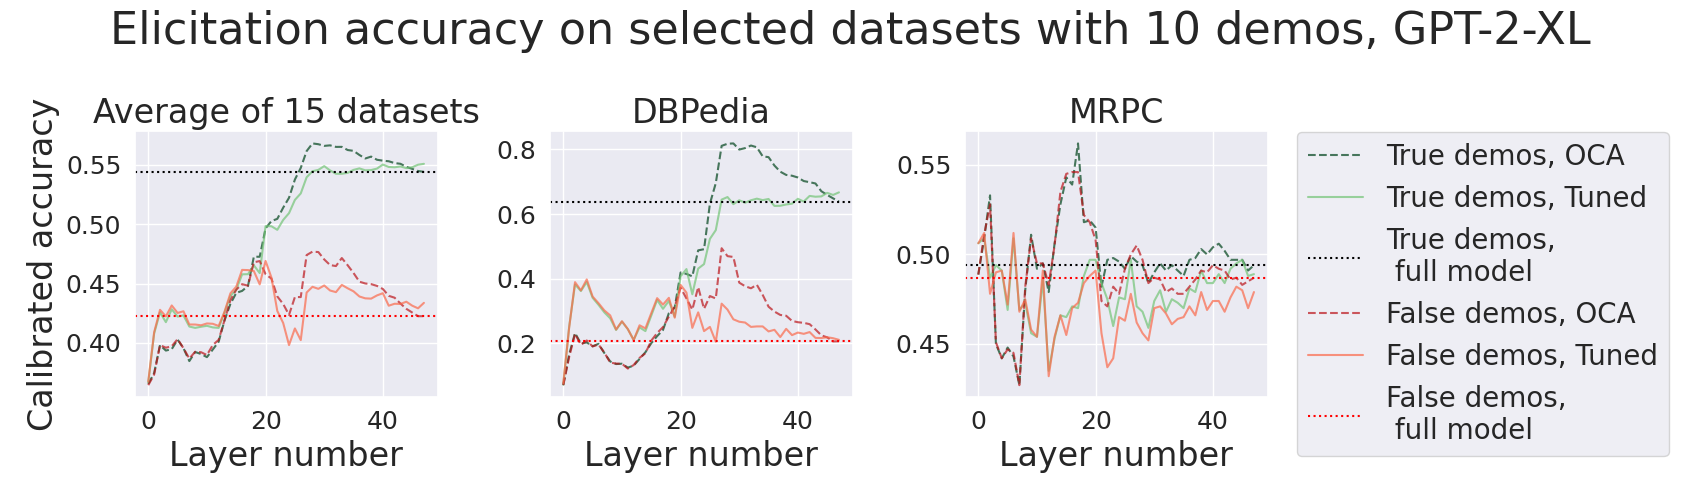
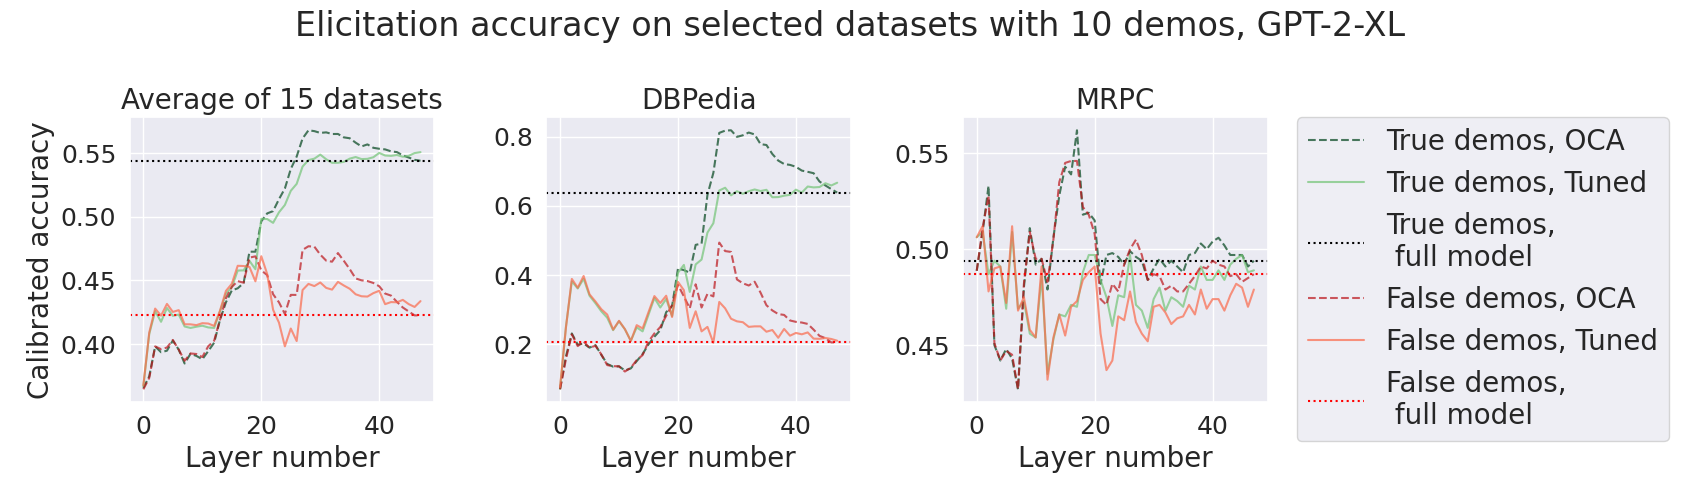
lens plots

diff --git a/lens_truthfulness.py b/lens_truthfulness.py
@@ -177,12 +177,12 @@ lineshades = {'True labels': blue_shades, 'Permuted labels': red_shades}
 
 def plot_figure(data, dataset_name, demos, string_labels=False):
     CORR_SIZE = 20
-    SMALL_SIZE = 20
+    SMALL_SIZE = 18
     MEDIUM_SIZE = 20
-    BIGGER_SIZE = 32
+    BIGGER_SIZE = 24
 
     plt.rc('font', size=SMALL_SIZE)          # controls default text sizes
-    plt.rc('axes', titlesize=SMALL_SIZE)     # fontsize of the axes title
+    plt.rc('axes', titlesize=MEDIUM_SIZE)     # fontsize of the axes title
     plt.rc('axes', labelsize=MEDIUM_SIZE)    # fontsize of the x and y labels
     plt.rc('xtick', labelsize=SMALL_SIZE)    # fontsize of the tick labels
     plt.rc('ytick', labelsize=SMALL_SIZE)    # fontsize of the tick labels
